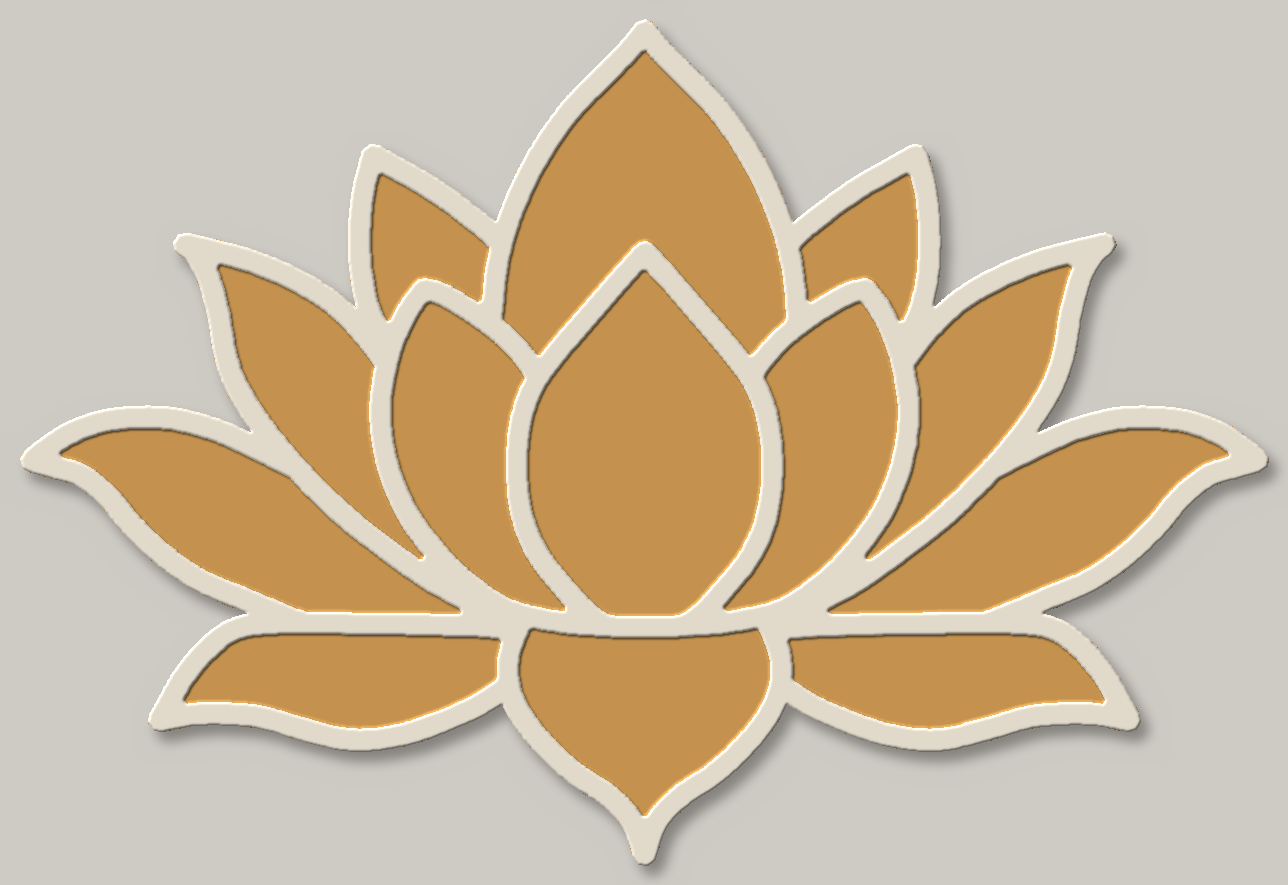
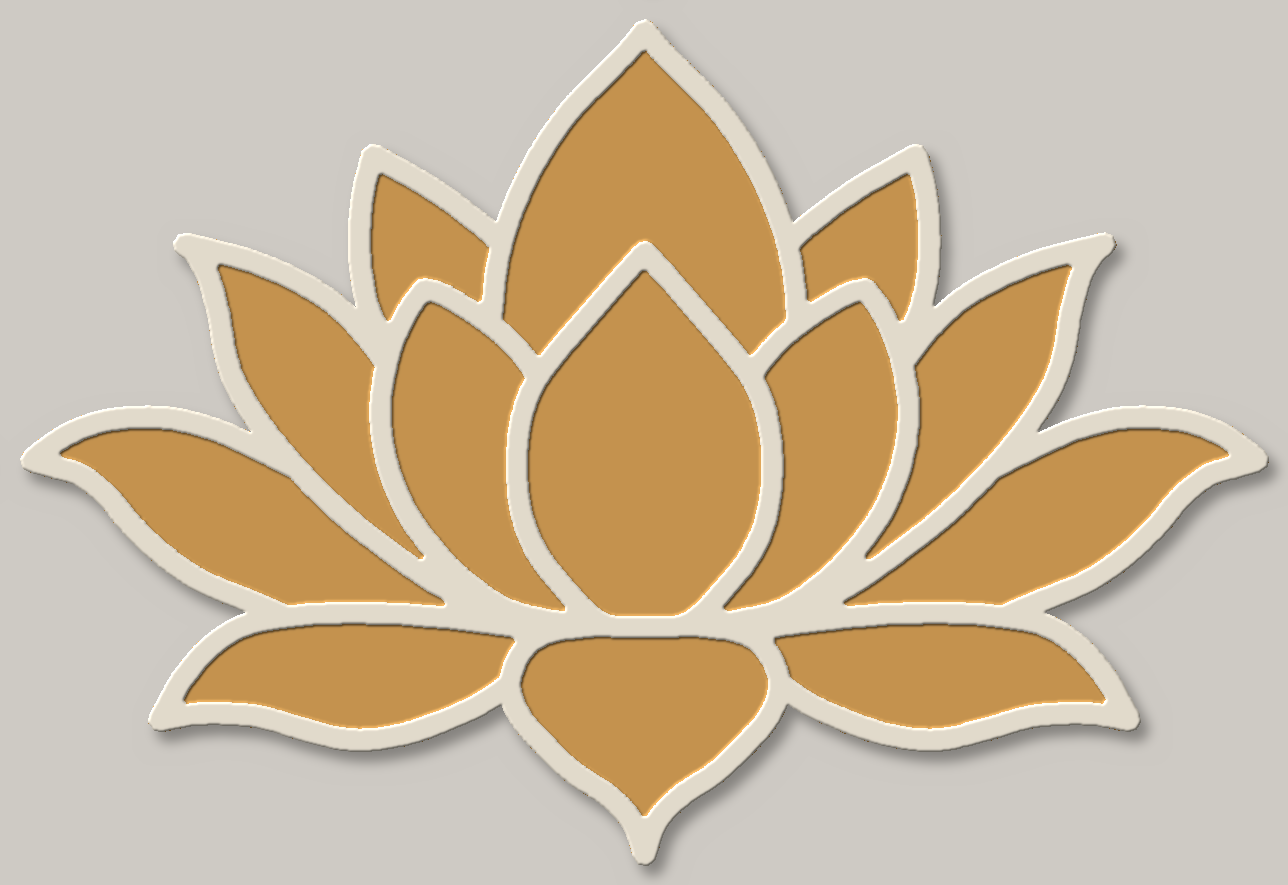
Lotus rangoli board: curve the bottom junction (preview only)
Arc the lower side petal tops and give the bottom petal rounded
shoulders so the base of the flower is curved, not a straight line.

Claude-Session: https://claude.ai/code/session_01HQyouszACcJfNx7ugTWrWT

Changed region(s): [[0.1553, 0.6712, 0.4658, 0.7627], [0.528, 0.6712, 0.8075, 0.7627], [0.5901, 0.7932, 0.6211, 0.8237]]

diff --git a/tools/lotus_rangoli_vector.py b/tools/lotus_rangoli_vector.py
@@ -48,7 +48,7 @@ LEFT_PETALS = {
                (491, 531), (483, 481), (486, 440), (496, 400), (513, 363), (530, 340)],
               [(530, 340), (552, 347), (590, 370), (622, 396), (650, 430), (690, 500),
                (725, 600), (740, 680), (735, 704)]),
-    "low_side": ([(690, 710), (560, 703), (450, 701), (365, 701), (325, 708), (296, 729),
+    "low_side": ([(690, 716), (610, 702), (520, 692), (440, 690), (380, 694), (335, 704), (300, 726),
                   (271, 759), (255, 787), (245, 805)],
                  [(245, 805), (290, 798), (350, 801), (400, 815), (450, 826), (500, 822),
                   (550, 806), (600, 782), (640, 750), (690, 710)]),
@@ -57,7 +57,7 @@ LEFT_PETALS = {
 CENTER_PETALS = {
     "rear_top": [(CX, 660), (660, 600), (620, 500), (604, 420), (604, 360), (612, 300),
                  (630, 245), (655, 195), (686, 150), (720, 114), (748, 86), (CX, 62)],
-    "bottom": [(CX, 640), (700, 648), (655, 668), (636, 698), (622, 735), (622, 768), (635, 800),
+    "bottom": [(CX, 702), (735, 703), (700, 705), (668, 710), (644, 722), (628, 745), (623, 772), (635, 803),
                (660, 832), (692, 862), (728, 886), (752, 910), (762, 930), (CX, 950)],
     "center": [(CX, 705), (720, 700), (676, 657), (650, 621), (635, 581), (630, 531),
                (635, 481), (650, 441), (676, 405), (706, 370), (740, 331), (CX, 300)],
@@ -65,7 +65,7 @@ CENTER_PETALS = {
 # Back-to-front drawing order.
 ORDER = [("outer_low", "L"), ("outer_low", "R"), ("rear_side", "L"), ("rear_side", "R"),
          ("rear_top", "C"), ("outer_up", "L"), ("outer_up", "R"), ("low_side", "L"),
-         ("low_side", "R"), ("bottom", "C"), ("inner", "L"), ("inner", "R"), ("center", "C")]
+         ("low_side", "R"), ("inner", "L"), ("inner", "R"), ("bottom", "C"), ("center", "C")]
 
 
 def catmull_rom(pts, n=24):
